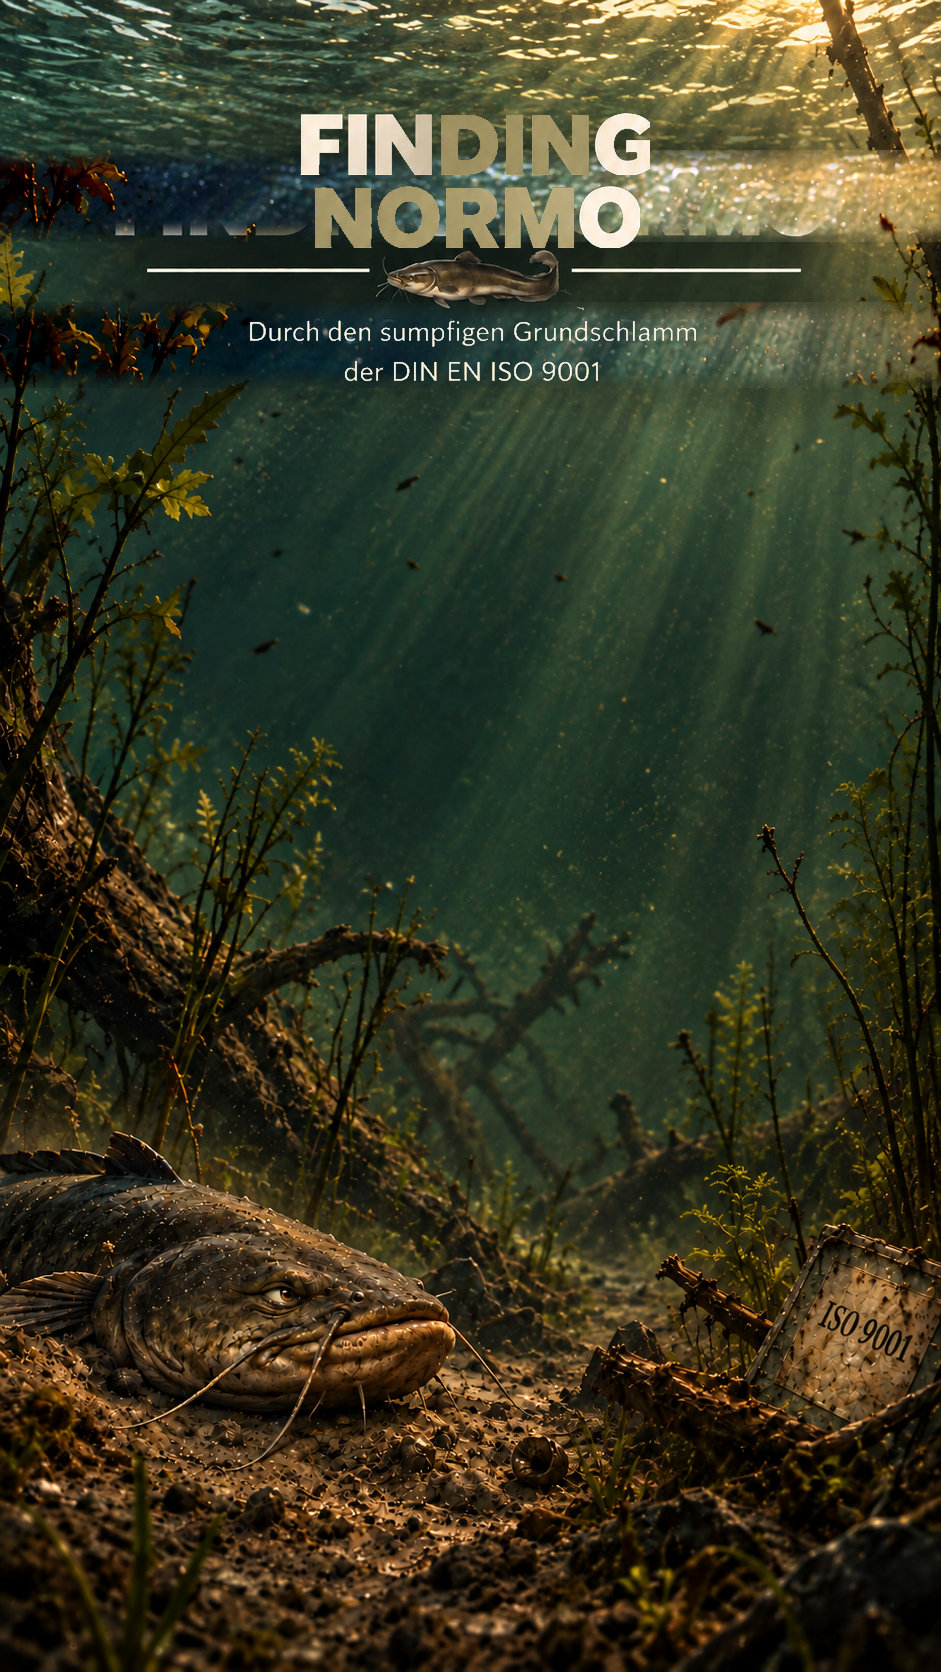
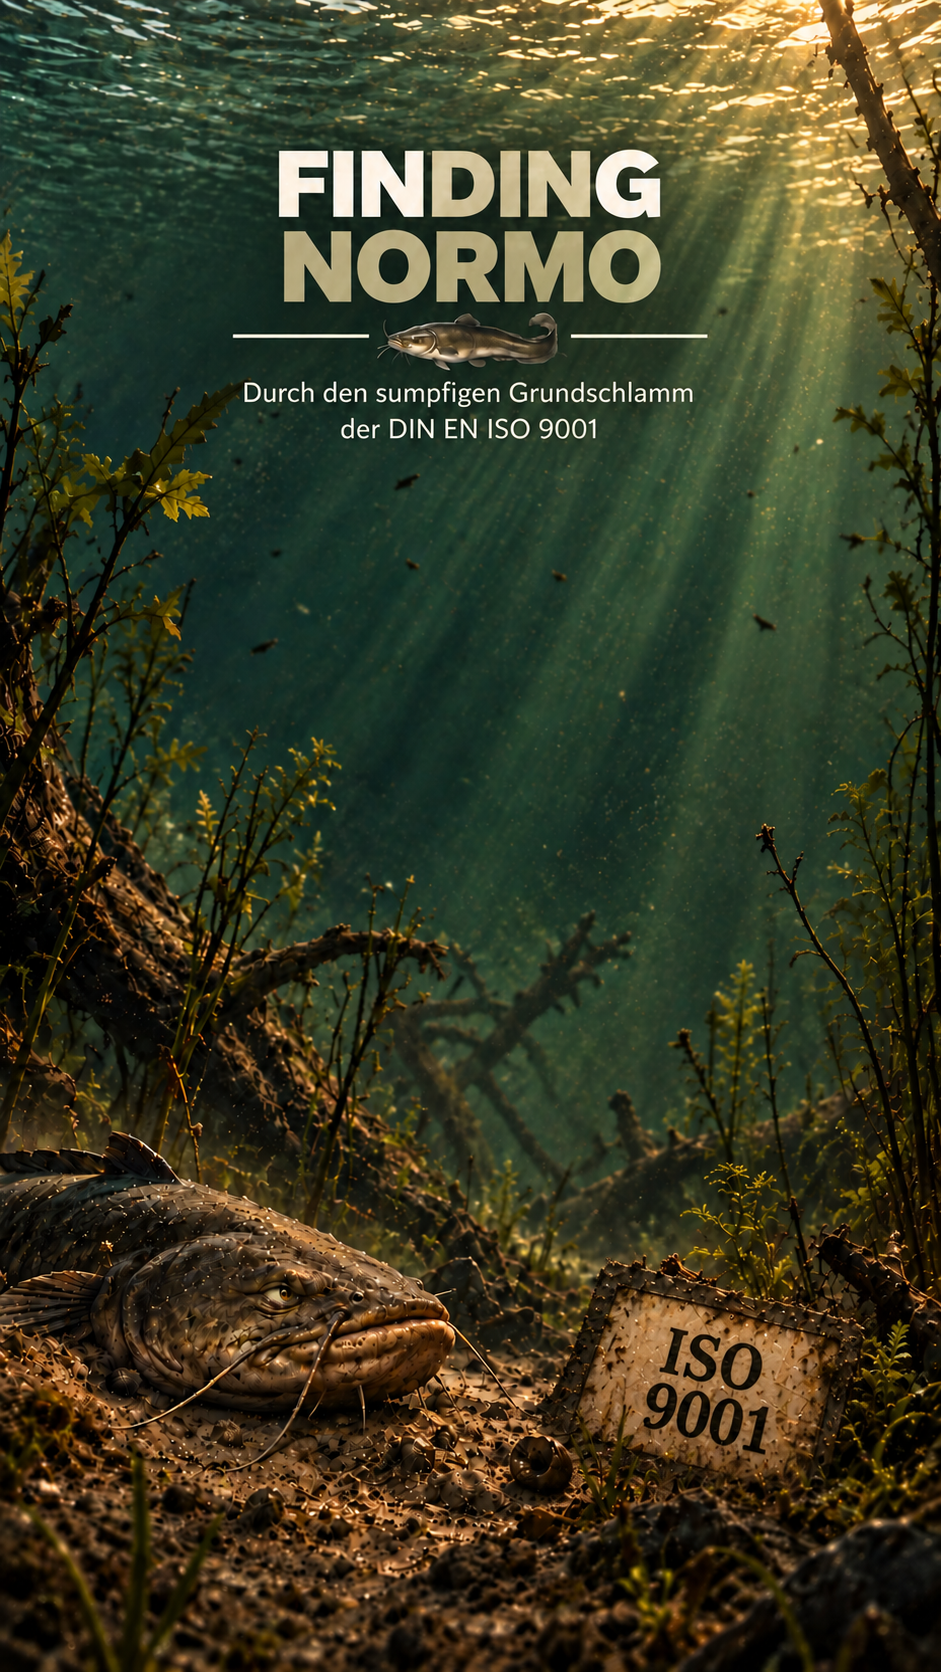
Add files via upload

diff --git a/game.js b/game.js
@@ -227,7 +227,7 @@ function drawQuestion() {
         <div class="prompt">Welches Kapitel gehört zu diesem Kapitelnamen?</div>
         <div class="question">${current[1]}</div>
         <div class="answer-row">
-            <input class="answer" id="answer" inputmode="decimal" enterkeyhint="done" autocomplete="off" autocapitalize="off" autocorrect="off" spellcheck="false">
+            <input class="answer" id="answer" inputmode="text" enterkeyhint="done" autocomplete="off" autocapitalize="off" autocorrect="off" spellcheck="false">
             <div id="mobileActionSlot"></div>
         </div>
         <div class="feedback" id="feedback"></div>

diff --git a/service-worker.js b/service-worker.js
@@ -1,4 +1,4 @@
-const CACHE_NAME = "finding-normo-v4";
+const CACHE_NAME = "finding-normo-v5";
 const APP_FILES = [
   "./",
   "./index.html",
